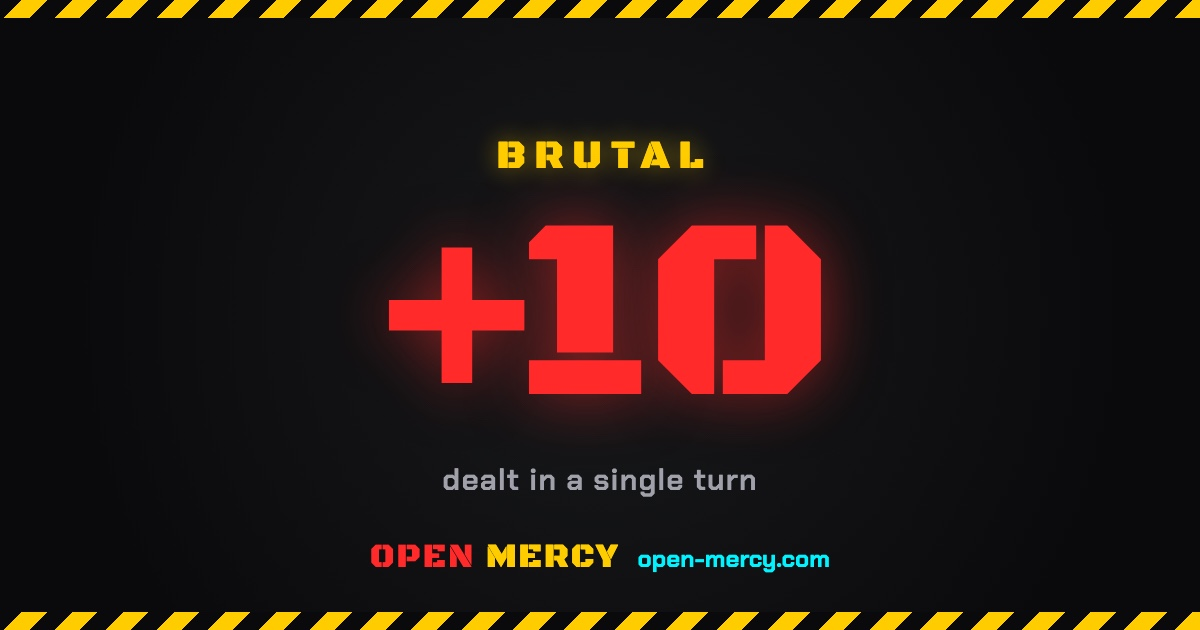
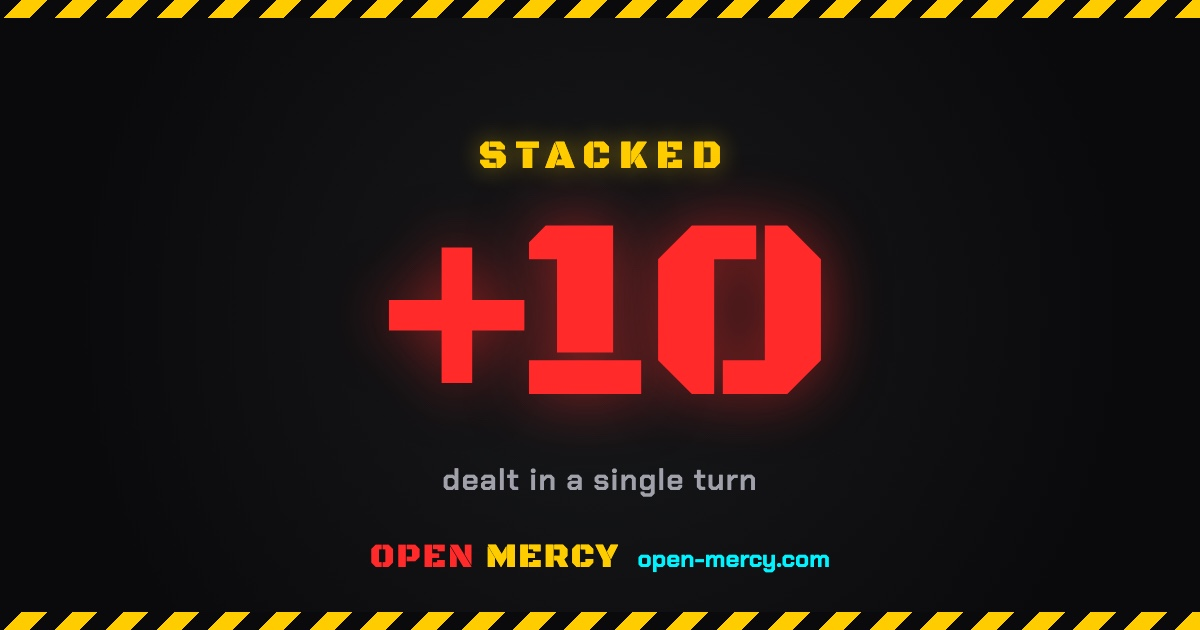
feat(share): put the exact stack size on the kill card image
The banded images could contradict their own headline: a +25 rendered an
image reading "+20" next to a title saying 25. "+20" reads as a specific
claim, not "20 or more", so the picture and the text disagreed.

Every draw card is worth 2, 4, 6 or 10, so a landed stack is always even.
Confirmed against ~4k recorded games, which contain no odd value. That halves
the image set and makes one-image-per-outcome affordable: even sizes 6 to 42,
20 images, ~2MB of static assets that only a link-preview crawler ever fetches.

The cap comes from the recorded distribution rather than a guess. Frequency
falls off a cliff after 42 (five games at 42, then 44/46/48/50/54/72 with one
game each), so '42plus' fires in roughly 0.15% of stacks of 16 or more, and
"42+" is a true statement when it does.

Starting at 6 drops the +2 and +4 images, which could never ship anyway since
isBragworthy gates minting at 6.

'26plus' is retained as a permitted slug with its image, so cards minted under
the banded scheme keep validating and keep unfurling. The tier CHECK is now
stated as drop-then-add so re-running kill-cards.sql updates an existing table
instead of silently doing nothing.

Requires supabase/kill-cards.sql to be re-run in the SQL Editor.

Changed region(s): [[0.4008, 0.2111, 0.6167, 0.2714]]

diff --git a/frontend/src/utils/__tests__/killCard.spec.ts b/frontend/src/utils/__tests__/killCard.spec.ts
@@ -2,39 +2,41 @@ import { describe, expect, it } from 'vitest'
 import { KILL_TIERS, killTier, isBragworthy, buildKillMeta, newKillCode, MIN_BRAG_STACK } from '../killCard'
 
 describe('killTier', () => {
-    it('maps each stack size to the largest tier it clears', () => {
-        expect(killTier(2)).toBe('2')
-        expect(killTier(4)).toBe('4')
+    it('names the exact stack size for every even value in range', () => {
+        for (let n = 6; n <= 42; n += 2) {
+            expect(killTier(n)).toBe(String(n))
+        }
+    })
+
+    it('falls back only above the cap, so 42 keeps its own image', () => {
+        expect(killTier(42)).toBe('42')
+        expect(killTier(44)).toBe('42plus')
+        expect(killTier(72)).toBe('42plus')
+        expect(killTier(152)).toBe('42plus')
+    })
+
+    it('rounds an odd amount down so the image never overstates', () => {
+        // Unreachable in play (every draw card is worth 2/4/6/10) but the
+        // image must not claim more than was dealt if one ever appears.
+        expect(killTier(9)).toBe('8')
+        expect(killTier(43)).toBe('42')
+    })
+
+    it('clamps below the brag threshold rather than returning undefined', () => {
         expect(killTier(6)).toBe('6')
-        expect(killTier(10)).toBe('10')
-        expect(killTier(12)).toBe('12')
-        expect(killTier(16)).toBe('16')
-        expect(killTier(20)).toBe('20')
-        expect(killTier(26)).toBe('26plus')
-    })
-
-    it('rounds down to the nearest tier between thresholds', () => {
-        expect(killTier(3)).toBe('2')
-        expect(killTier(9)).toBe('6')
-        expect(killTier(15)).toBe('12')
-        expect(killTier(19)).toBe('16')
-    })
-
-    it('clamps anything past the top tier', () => {
-        expect(killTier(40)).toBe('26plus')
-        expect(killTier(999)).toBe('26plus')
-    })
-
-    it('clamps below the smallest tier rather than returning undefined', () => {
-        expect(killTier(0)).toBe('2')
-        expect(killTier(1)).toBe('2')
-        expect(killTier(-5)).toBe('2')
+        expect(killTier(4)).toBe('6')
+        expect(killTier(0)).toBe('6')
+        expect(killTier(-5)).toBe('6')
     })
 
     it('only ever returns a slug from the published tier list', () => {
-        for (let n = -5; n <= 60; n++) {
+        for (let n = -5; n <= 160; n++) {
             expect(KILL_TIERS).toContain(killTier(n))
         }
+    })
+
+    it('keeps the legacy 26plus slug published for cards minted before the change', () => {
+        expect(KILL_TIERS).toContain('26plus')
     })
 })
 

diff --git a/frontend/src/utils/killCard.ts b/frontend/src/utils/killCard.ts
@@ -14,13 +14,28 @@
  * KILL_TIERS before putting it in an image URL.
  */
 
-/** Slugs of the pre-rendered images in public/og/kill-<tier>.png. */
-export const KILL_TIERS = ['2', '4', '6', '10', '12', '16', '20', '26plus'] as const
+/**
+ * Every draw card is worth 2, 4, 6 or 10, so a landed stack is always even —
+ * confirmed against ~4k recorded games, which contain no odd value. That halves
+ * the image set and lets each one state the exact number instead of a floor.
+ *
+ * The range stops at 42 because the distribution falls off a cliff there: five
+ * recorded games at 42, then 44/46/48/50/54/72 with one game each. Above the
+ * cap, '42plus' renders "42+", which is still a true statement.
+ *
+ * '26plus' is retained for cards minted before the exact-number scheme; its
+ * image stays in public/og/ so those links keep unfurling, and the tier CHECK
+ * in kill-cards.sql keeps accepting it.
+ */
+export const KILL_TIER_CAP = 42
+
+export const KILL_TIERS = [
+    '6', '8', '10', '12', '14', '16', '18', '20', '22', '24',
+    '26', '28', '30', '32', '34', '36', '38', '40', '42', '42plus',
+    '26plus',
+] as const
 
 export type KillTier = (typeof KILL_TIERS)[number]
-
-/** Lower bound of each tier, index-aligned with KILL_TIERS. */
-const TIER_FLOORS = [2, 4, 6, 10, 12, 16, 20, 26]
 
 /**
  * Stacks smaller than this are routine — a +4 happens several times a game and
@@ -49,11 +64,11 @@ export function newKillCode(): string {
 }
 
 export function killTier(amount: number): KillTier {
-    let idx = 0
-    for (let i = 0; i < TIER_FLOORS.length; i++) {
-        if (amount >= TIER_FLOORS[i]!) idx = i
-    }
-    return KILL_TIERS[idx]!
+    // Round down to even so a hypothetical odd amount can never overstate.
+    const even = Math.floor(amount / 2) * 2
+    if (even > KILL_TIER_CAP) return '42plus'
+    if (even <= MIN_BRAG_STACK) return '6'
+    return String(even) as KillTier
 }
 
 export function isBragworthy(amount: number): boolean {

diff --git a/frontend/scripts/killOgTemplate.html b/frontend/scripts/killOgTemplate.html
@@ -135,22 +135,22 @@
   </div>
 
 <script>
-  // Keep in step with KILL_TIERS in src/utils/killCard.ts.
-  const TIERS = {
-    '2':      { label: '+2',  verdict: 'STACKED' },
-    '4':      { label: '+4',  verdict: 'STACKED' },
-    '6':      { label: '+6',  verdict: 'BRUTAL' },
-    '10':     { label: '+10', verdict: 'BRUTAL' },
-    '12':     { label: '+12', verdict: 'SAVAGE' },
-    '16':     { label: '+16', verdict: 'SAVAGE' },
-    '20':     { label: '+20', verdict: 'NO MERCY' },
-    '26plus': { label: '26+', verdict: 'NO MERCY' },
+  // Every tier below the cap states its exact number, so the image can never
+  // disagree with the amount in the meta title. Keep in step with KILL_TIERS
+  // in src/utils/killCard.ts.
+  function verdictFor(n) {
+    if (n >= 30) return 'NO MERCY'
+    if (n >= 20) return 'SAVAGE'
+    if (n >= 12) return 'BRUTAL'
+    return 'STACKED'
   }
 
-  const tier = new URLSearchParams(location.search).get('tier') || '26plus'
-  const spec = TIERS[tier] || TIERS['26plus']
-  document.getElementById('amount').textContent = spec.label
-  document.getElementById('verdict').textContent = spec.verdict
+  const tier = new URLSearchParams(location.search).get('tier') || '42plus'
+  // Open-ended slugs are the only ones that read as "or more".
+  const openEnded = tier.endsWith('plus')
+  const n = parseInt(tier, 10)
+  document.getElementById('amount').textContent = openEnded ? `${n}+` : `+${n}`
+  document.getElementById('verdict').textContent = verdictFor(n)
 
   // The screenshot driver waits on this before shooting, so a half-loaded
   // webfont can never end up baked into a committed image.

diff --git a/functions/k/[code].js b/functions/k/[code].js
@@ -18,7 +18,12 @@ const CANONICAL_ORIGIN = 'https://open-mercy.com'
  * a CHECK in kill-cards.sql; this is the third gate, and the one that matters,
  * because the value lands inside an image URL.
  */
-const KILL_TIERS = new Set(['2', '4', '6', '10', '12', '16', '20', '26plus'])
+const KILL_TIERS = new Set([
+    '6', '8', '10', '12', '14', '16', '18', '20', '22', '24',
+    '26', '28', '30', '32', '34', '36', '38', '40', '42', '42plus',
+    // Cards minted before stacks got their exact number.
+    '26plus',
+])
 
 async function fetchKill(env, code) {
     const url = env.VITE_SUPABASE_URL
